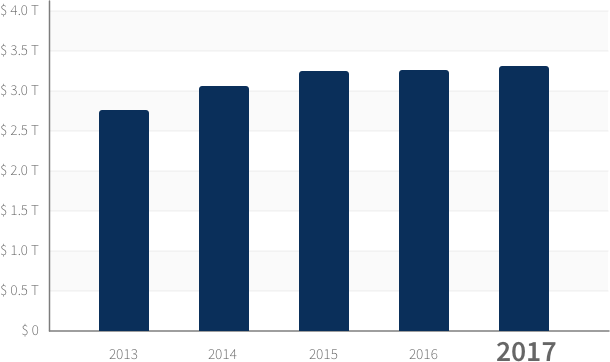
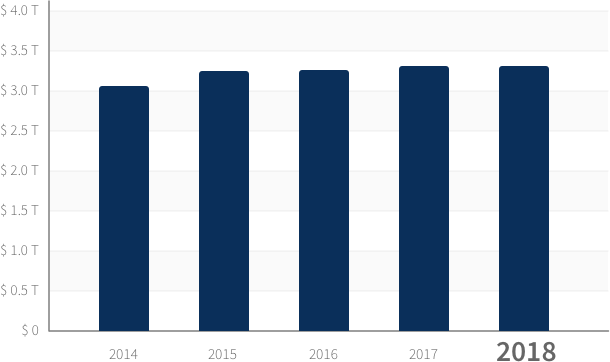
Added in the latest 2018 graphs for bp. Updated the text styling underneath the graphs so they fit on one line.

diff --git a/assets/ffg/css/bp.css b/assets/ffg/css/bp.css
@@ -145,7 +145,7 @@ section.chapter {
     color: #666666;
     font-size: 1.1rem; }
     .chapter__content p.chapter__chart--reference {
-      font-size: 0.8rem;
+      font-size: 0.7rem;
       text-align: center;
       font-style: italic; }
       .chapter__content p.chapter__chart--reference a {

diff --git a/assets/ffg/css/debt-country-comparison.css b/assets/ffg/css/debt-country-comparison.css
@@ -24,7 +24,7 @@ section.chapter {
     color: #666666;
     font-size: 1.1rem; }
     .chapter__content p.chapter__chart--reference {
-      font-size: 0.8rem;
+      font-size: 0.7rem;
       text-align: center;
       font-style: italic; }
       .chapter__content p.chapter__chart--reference a {

diff --git a/assets/ffg/css/deficit-country-comparison.css b/assets/ffg/css/deficit-country-comparison.css
@@ -24,7 +24,7 @@ section.chapter {
     color: #666666;
     font-size: 1.1rem; }
     .chapter__content p.chapter__chart--reference {
-      font-size: 0.8rem;
+      font-size: 0.7rem;
       text-align: center;
       font-style: italic; }
       .chapter__content p.chapter__chart--reference a {

diff --git a/citizens-guide/src/bigPicture/scss/_chapter.scss b/citizens-guide/src/bigPicture/scss/_chapter.scss
@@ -34,7 +34,7 @@ section.chapter {
         font-size:1.1rem;
 
         &.chapter__chart--reference {
-            font-size: 0.8rem;
+            font-size: 0.7rem;
             text-align: center;
             font-style: italic;
 
